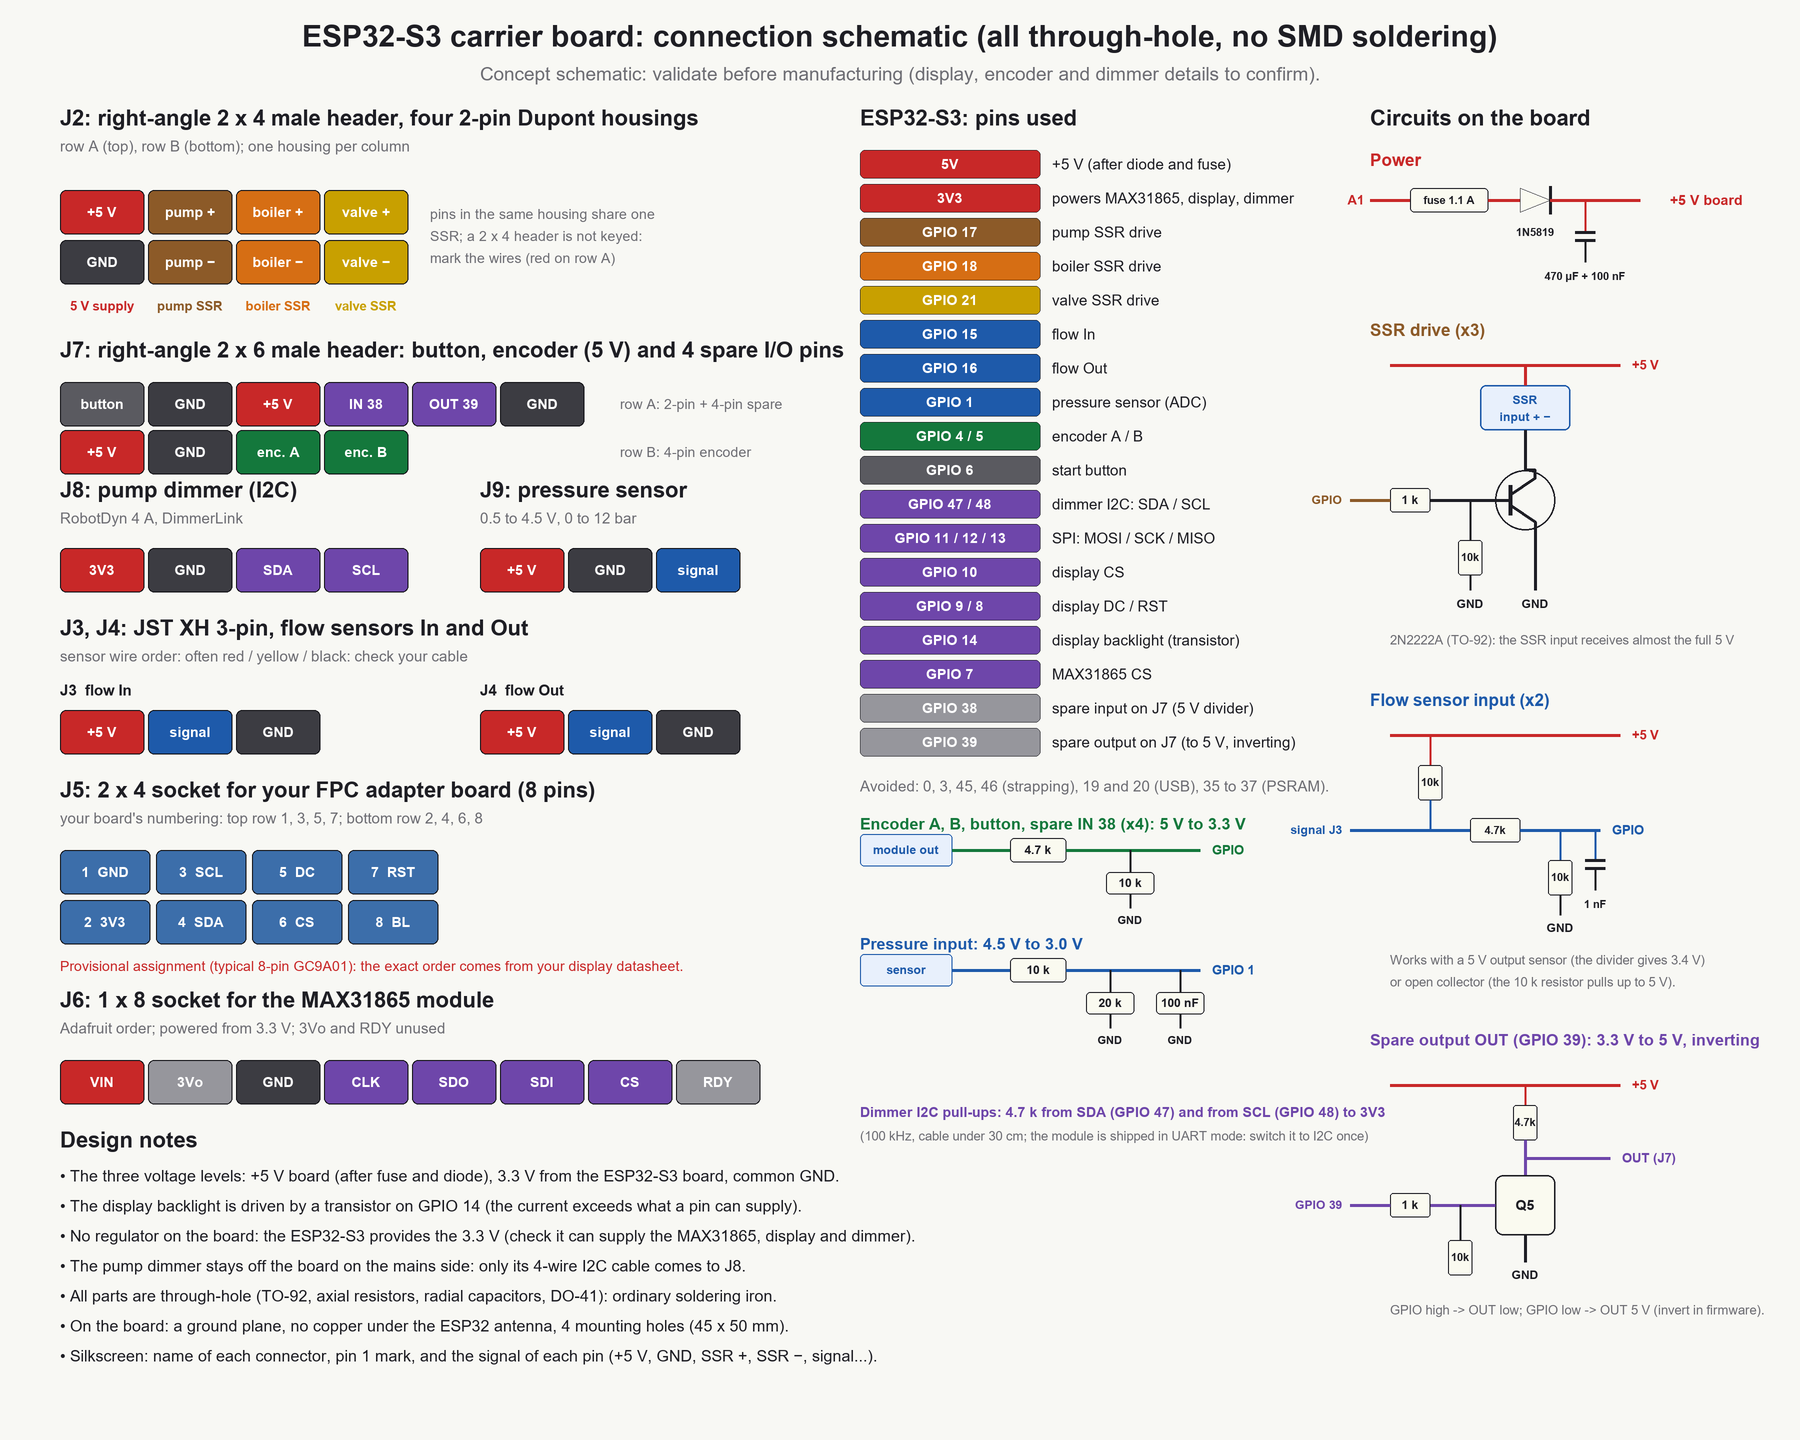
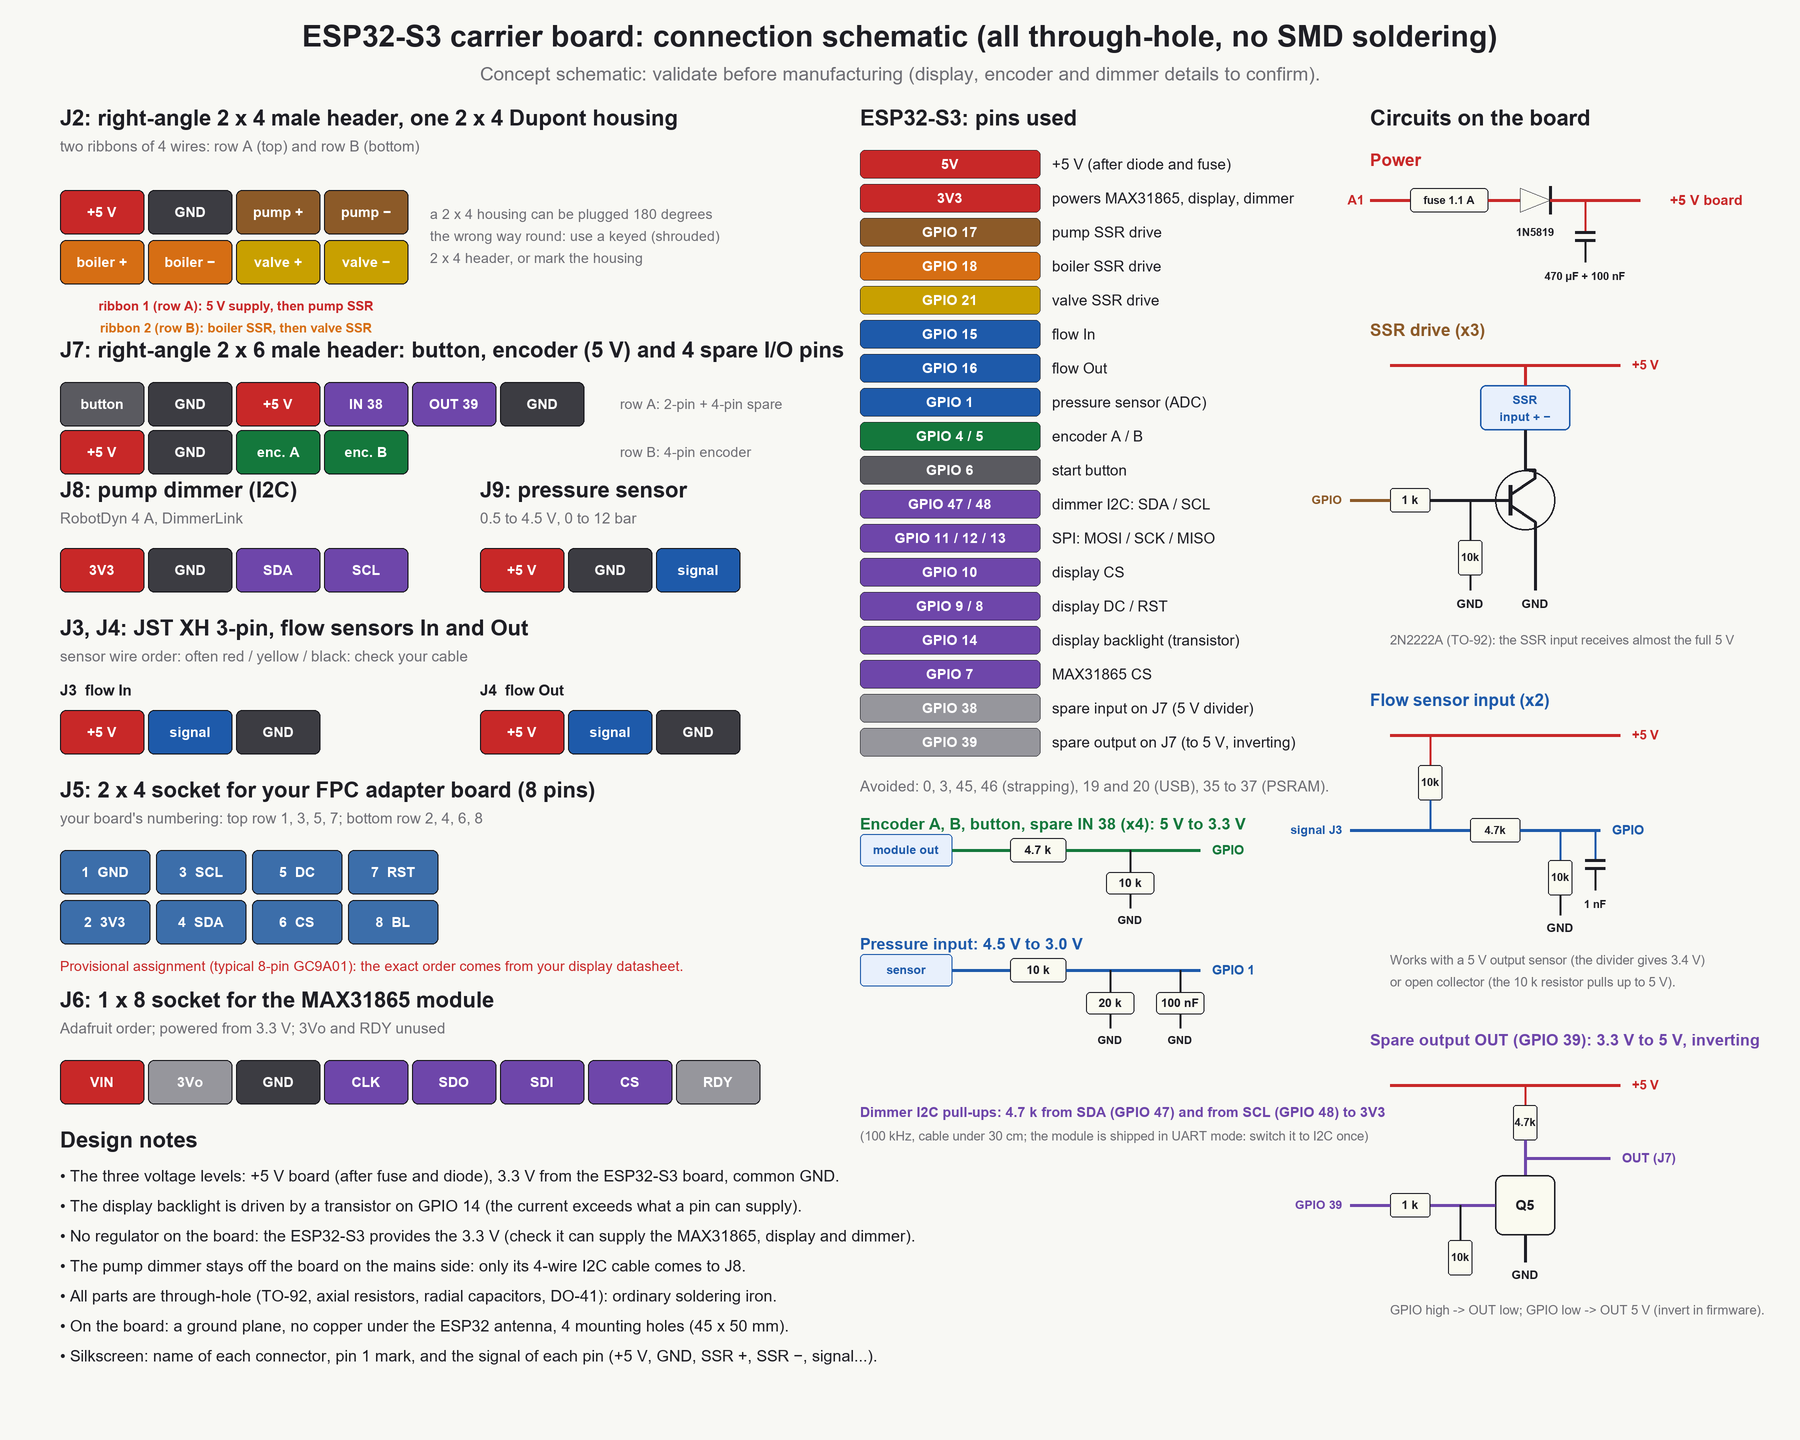
J2: single 2x4 Dupont housing with two ribbons of 4 wires (row A: 5V, GND, P+, P-; row B: B+, B-, V+, V-)

Changed region(s): [[0.0311, 0.0938, 0.3733, 0.25], [0.2178, 0.0625, 0.4044, 0.0938]]

diff --git a/tools/connection_schematic.py b/tools/connection_schematic.py
@@ -31,18 +31,21 @@ def head(x, y, title, sub=None):
     if sub:
         T(x, y + 28, sub, F(15), GRY, 'lm')
 
-# ---- J2 : 2 x 4 right-angle header, 4 two-pin housings (one per column)
-head(60, 118, "J2: right-angle 2 x 4 male header, four 2-pin Dupont housings", "row A (top), row B (bottom); one housing per column")
-colsJ2 = [(("+5 V", RED), ("GND", DK)), (("pump +", BRN), ("pump −", BRN)), (("boiler +", ORG), ("boiler −", ORG)), (("valve +", YEL), ("valve −", YEL))]
+# ---- J2 : 2 x 4 right-angle header, ONE 2 x 4 Dupont housing, two ribbons of 4 wires (one per row)
+head(60, 118, "J2: right-angle 2 x 4 male header, one 2 x 4 Dupont housing", "two ribbons of 4 wires: row A (top) and row B (bottom)")
+rowA = [("+5 V", RED), ("GND", DK), ("pump +", BRN), ("pump −", BRN)]
+rowB = [("boiler +", ORG), ("boiler −", ORG), ("valve +", YEL), ("valve −", YEL)]
 x0, yA, yB = 60, 190, 240
-for i, (a, b) in enumerate(colsJ2):
-    pin(x0 + i * 88, yA, a[0], a[1], 14)
-    pin(x0 + i * 88, yB, b[0], b[1], 14)
-for i, t in enumerate(["5 V supply", "pump SSR", "boiler SSR", "valve SSR"]):
-    T(x0 + i * 88 + 42, 306, t, F(13, True), colsJ2[i][0][1])
-T(x0 + 370, 214, "pins in the same housing share one", F(14), GRY, 'lm')
-T(x0 + 370, 236, "SSR; a 2 x 4 header is not keyed:", F(14), GRY, 'lm')
-T(x0 + 370, 258, "mark the wires (red on row A)", F(14), GRY, 'lm')
+for i, (lab, col) in enumerate(rowA):
+    pin(x0 + i * 88, yA, lab, col, 14)
+for i, (lab, col) in enumerate(rowB):
+    pin(x0 + i * 88, yB, lab, col, 14)
+T(x0 + 2 * 88, 306, "ribbon 1: 5 V supply + pump SSR", F(13, True), RED, 'mm') if False else None
+T(x0 + 176, 306, "ribbon 1 (row A): 5 V supply, then pump SSR", F(13, True), RED)
+T(x0 + 176, 328, "ribbon 2 (row B): boiler SSR, then valve SSR", F(13, True), ORG)
+T(x0 + 370, 214, "a 2 x 4 housing can be plugged 180 degrees", F(14), GRY, 'lm')
+T(x0 + 370, 236, "the wrong way round: use a keyed (shrouded)", F(14), GRY, 'lm')
+T(x0 + 370, 258, "2 x 4 header, or mark the housing", F(14), GRY, 'lm')
 
 # ---- J7 : 2 x 6 (two stacked rows of housings)
 head(60, 350, "J7: right-angle 2 x 6 male header: button, encoder (5 V) and 4 spare I/O pins")

diff --git a/tools/enclosure_view.py b/tools/enclosure_view.py
@@ -160,10 +160,9 @@ for i in range(4):
     cuboid(CX0 + 27.2 - 0.32, CY0 + 31.0 + i * 2.54 - 0.32, top + 2.5, 0.64, 0.64, 6.0, GOLD)
 for i in range(3):
     cuboid(CX0 + 27.2 - 0.32, CY0 + 42.0 + i * 2.54 - 0.32, top + 2.5, 0.64, 0.64, 6.0, GOLD)
-# J2 (2 x 4 right-angle, rows stacked vertically) and four 2-pin housings plugged in from the front
+# J2 (2 x 4 right-angle, rows stacked vertically) and ONE 2 x 4 housing plugged in from the front
 cuboid(CX0 + 12.2 - 1.27, CY0 + 60.2, top, 10.16, 5.0, 5.9, BLACK)
-for k in range(4):
-    cuboid(CX0 + 12.2 - 1.27 + k * 2.54 + 0.15, CY0 + 65.2, top + 0.4, 2.24, 8.6, 5.1, WHITE)
+cuboid(CX0 + 12.2 - 1.27 + 0.15, CY0 + 65.2, top + 0.4, 10.0, 8.6, 5.1, WHITE)
 # J7 (2 x 6 right-angle): lower row = 4-pin encoder housing, upper row = 2-pin button + 4-pin spare housings
 cuboid(CX0 + 22.4 - 1.27, CY0 + 60.2, top, 15.24, 5.0, 5.9, BLACK)
 cuboid(CX0 + 22.4 - 1.27 + 0.15, CY0 + 65.2, top + 0.4, 10.0, 8.6, 2.3, WHITE)
@@ -220,12 +219,11 @@ def riser_x(xc, yc, z0, z1, wires, color):
 
 
 Y0 = CY0 + 73.8
-# J2: four 2-pin housings -> 5 V supply and the three SSRs (2 wires each)
-for k, (lab, col) in enumerate([("5 V supply", RED), ("pump SSR", (150, 90, 40)), ("boiler SSR", (232, 130, 30)), ("valve SSR", YEL)]):
-    xk = CX0 + 12.2 + k * 2.54
-    zk = top + 0.4 + 2.55
-    run_z(xk, Y0, Y_END, zk, 2, col)
-    cable(lab, "J2", 2, col, (xk, Y_END, zk))
+# J2: one 2 x 4 housing, two ribbons of 4 wires (row A on top: 5 V, GND, pump; row B below: boiler, valve)
+xj2 = CX0 + 12.2 + 1.5 * 2.54
+cA, cB = (205, 35, 35), (232, 130, 30)
+run_x(xj2, Y0, Y_END, top + 0.4 + 3.82, 4, cA); cable("row A: 5 V, GND, pump", "J2", 4, cA, (xj2, Y_END, top + 0.4 + 3.82))
+run_x(xj2, Y0, Y_END, top + 0.4 + 1.28, 4, cB); cable("row B: boiler, valve", "J2", 4, cB, (xj2, Y_END, top + 0.4 + 1.28))
 # J7: button (2 wires), encoder (4 wires, lower row), spare I/O (4 wires)
 xb, xe, xs = CX0 + 22.4 + 1.27, CX0 + 22.4 + 3.81, CX0 + 22.4 + 8.89
 run_x(xb, Y0, Y_END, top + 4.15, 2, (240, 240, 240)); cable("button", "J7", 2, (240, 240, 240), (xb, Y_END, top + 4.15))

diff --git a/tools/placement_plan.py b/tools/placement_plan.py
@@ -170,9 +170,9 @@ for r_ in range(2):
         tpad(12.2 + c_ * 2.54, 61.0 + r_ * 2.54, square=(r_ == 0 and c_ == 0), ring=1.7, drill=1.0)
 rect(d, X(12.2) - 1.4 * K, Y(61.0) - 1.4 * K, X(12.2 + 3 * 2.54) + 1.4 * K, Y(63.54) + 1.4 * K, outline=SILK + (255,), width=2)
 silk(15.4, 58.4, "J2  SSRs + 5 V", 9)
-for c_, lab in enumerate(["+5V", "P+", "B+", "V+"]):
+for c_, lab in enumerate(["+5V", "GND", "P+", "P−"]):
     text(d, X(12.2 + c_ * 2.54), Y(61.0) - 1.9 * K, lab, 8, SILK, True)
-for c_, lab in enumerate(["GND", "P−", "B−", "V−"]):
+for c_, lab in enumerate(["B+", "B−", "V+", "V−"]):
     text(d, X(12.2 + c_ * 2.54), Y(63.54) + 1.9 * K, lab, 8, SILK, True)
 # J7: 2 x 6 right-angle header (two stacked rows of housings): button, encoder, and 4 spare pins (+5 V, IN, OUT, GND)
 # row A (top): BT, GND | +5 V, IN38, OUT39, GND      row B (bottom): +5 V, GND, A, B

diff --git a/docs/carrier_spec.md b/docs/carrier_spec.md
@@ -14,14 +14,14 @@ All **through-hole** parts (no SMD soldering). Related files: `images/placement_
 - **Front connector row:** right-angle headers with their Dupont housings need about **9 mm in front of the pads** (keep-out, nothing else there); J2 and J7 are on the 42 x 7 mm tab, the vertical JST XH J3 and J4 at the front right, F1 and D1 in the front-left corner. A cable slot is needed in the front wall (housings end about 1 mm from it).
 - **All cables leave through the front** (J2, J7, J3, J4, the PT100 wires and the display ribbon). Only the USB-C cable leaves through the left wall.
 - **Display ribbon:** the FPC adapter board is rotated so that its connector faces the front: the flat ribbon (about 6 mm wide, at about 15.5 mm) runs **straight to the front** between x 7 and 18 mm, above J2's housings (10.5 mm) and F1; no tall part (JST XH plugs reach about 16 mm) may sit in that column. Nothing crosses the MAX31865 any more.
-- **Cables:** small flat ribbons (Dupont wires side by side), about **1.5 mm per wire** (4 wires = 6 mm, 3 wires = 4.5 mm, 2 wires = 3 mm), 1.3 mm thick. In the 3D view the cables are numbered 1 to 11 (J2 x4, J7 x3, J3, J4, PT100 probe, display ribbon); J3 / J4 leave their plugs upwards at about 12 mm and the PT100 ribbon at about 15 mm; all go through the front slot. **J8 (pump dimmer) and J9 (pressure sensor) are provisioned on the board but not plugged for now**: they are shown as bare headers, and their cables (4 wires = 6 mm, 3 wires = 4.5 mm) are not counted in the slot width.
+- **Cables:** small flat ribbons (Dupont wires side by side), about **1.5 mm per wire** (4 wires = 6 mm, 3 wires = 4.5 mm, 2 wires = 3 mm), 1.3 mm thick. In the 3D view the cables are numbered 1 to 9 (J2 x2, J7 x3, J3, J4, PT100 probe, display ribbon); J3 / J4 leave their plugs upwards at about 12 mm and the PT100 ribbon at about 15 mm; all go through the front slot. **J8 (pump dimmer) and J9 (pressure sensor) are provisioned on the board but not plugged for now**: they are shown as bare headers, and their cables (4 wires = 6 mm, 3 wires = 4.5 mm) are not counted in the slot width.
 - The spare-I/O resistors R17 to R21 are flat resistors under the MAX31865 (3 mm clearance, enough for axial 1/4 W parts).
 - No copper and no component under the ESP32 antenna (the end of the ESP32 board opposite the USB-C).
 
 ## Connectors
 | Ref | Type | Role |
 |---|---|---|
-| J2 | 2 x 4 right-angle male header, female Dupont housings | 5 V supply + 3 SSRs |
+| J2 | 2 x 4 right-angle male header, one 2 x 4 female Dupont housing (two ribbons of 4 wires) | 5 V supply + 3 SSRs |
 | J3, J4 | JST XH 3-pin, vertical, rotated (real pitch 2.5 mm) | flow sensors In and Out |
 | J5 | 2 x 4 female socket | FPC adapter board (8 pins, ribbon to the remote display) |
 | J6 | 1 x 8 female socket (low, 3 mm) | MAX31865 module |
@@ -33,10 +33,10 @@ All **through-hole** parts (no SMD soldering). Related files: `images/placement_
 ### J2 (2 x 4: row A on top, row B at the bottom, pin 1 on the left)
 | | 1 | 2 | 3 | 4 |
 |---|---|---|---|---|
-| A | +5 V | pump + | boiler + | valve + |
-| B | GND | pump − | boiler − | valve − |
+| A | +5 V | GND | pump + | pump − |
+| B | boiler + | boiler − | valve + | valve − |
 
-Four 2-pin Dupont housings (one per column). Warning: a 2 x 4 header is not keyed and a 2-pin housing can be plugged the wrong way round; mark the wires (red on row A) or add a key / use a keyed housing.
+**One 2 x 4 Dupont housing**, two ribbons of 4 wires (one per row): ribbon 1 = 5 V supply and pump SSR, ribbon 2 = boiler SSR and valve SSR. Warning: an unkeyed 2 x 4 housing can be plugged 180 degrees the wrong way round (+5 V would land on the valve SSR "−" input and so on). Use a **keyed (shrouded) 2 x 4 IDC-style header** with its notch, or at least mark the housing and the header.
 
 ### J7 (2 x 6, right-angle: two stacked rows of Dupont housings)
 | | 1 | 2 | 3 | 4 | 5 | 6 |
